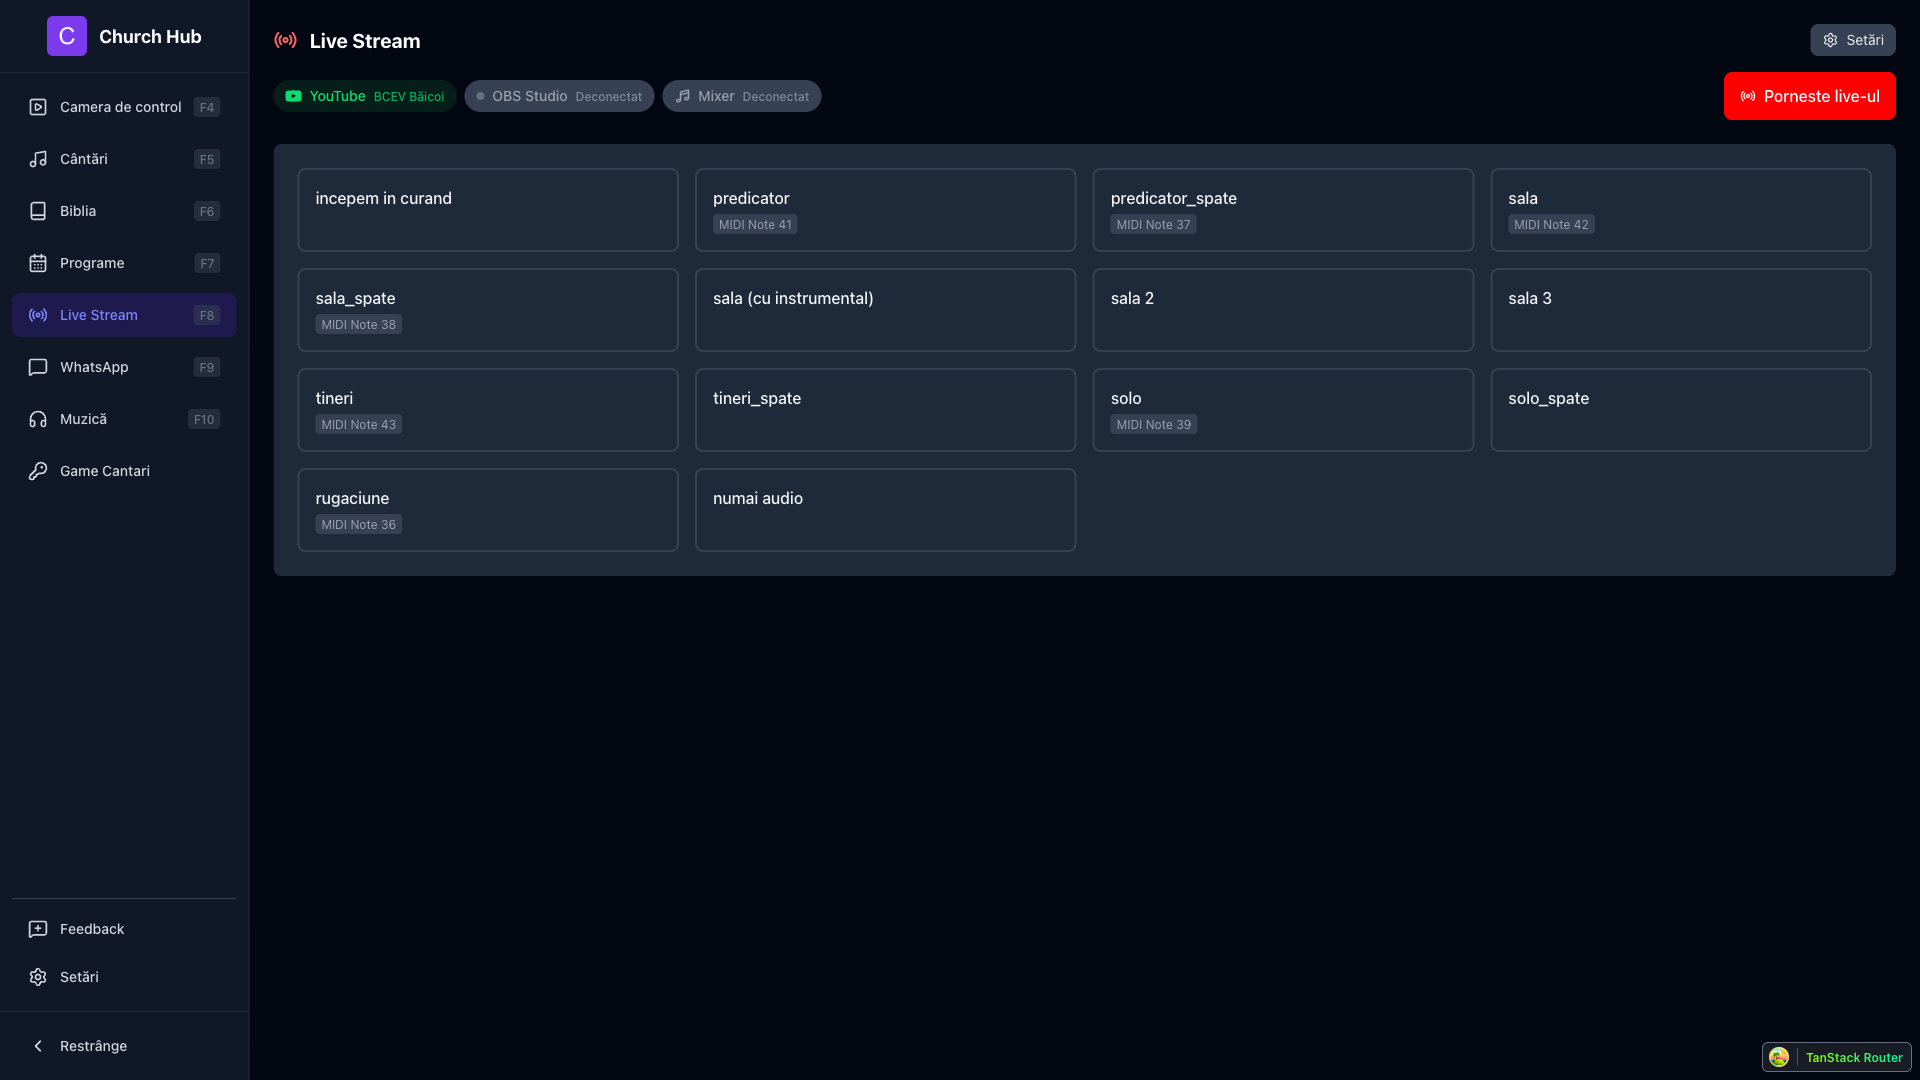
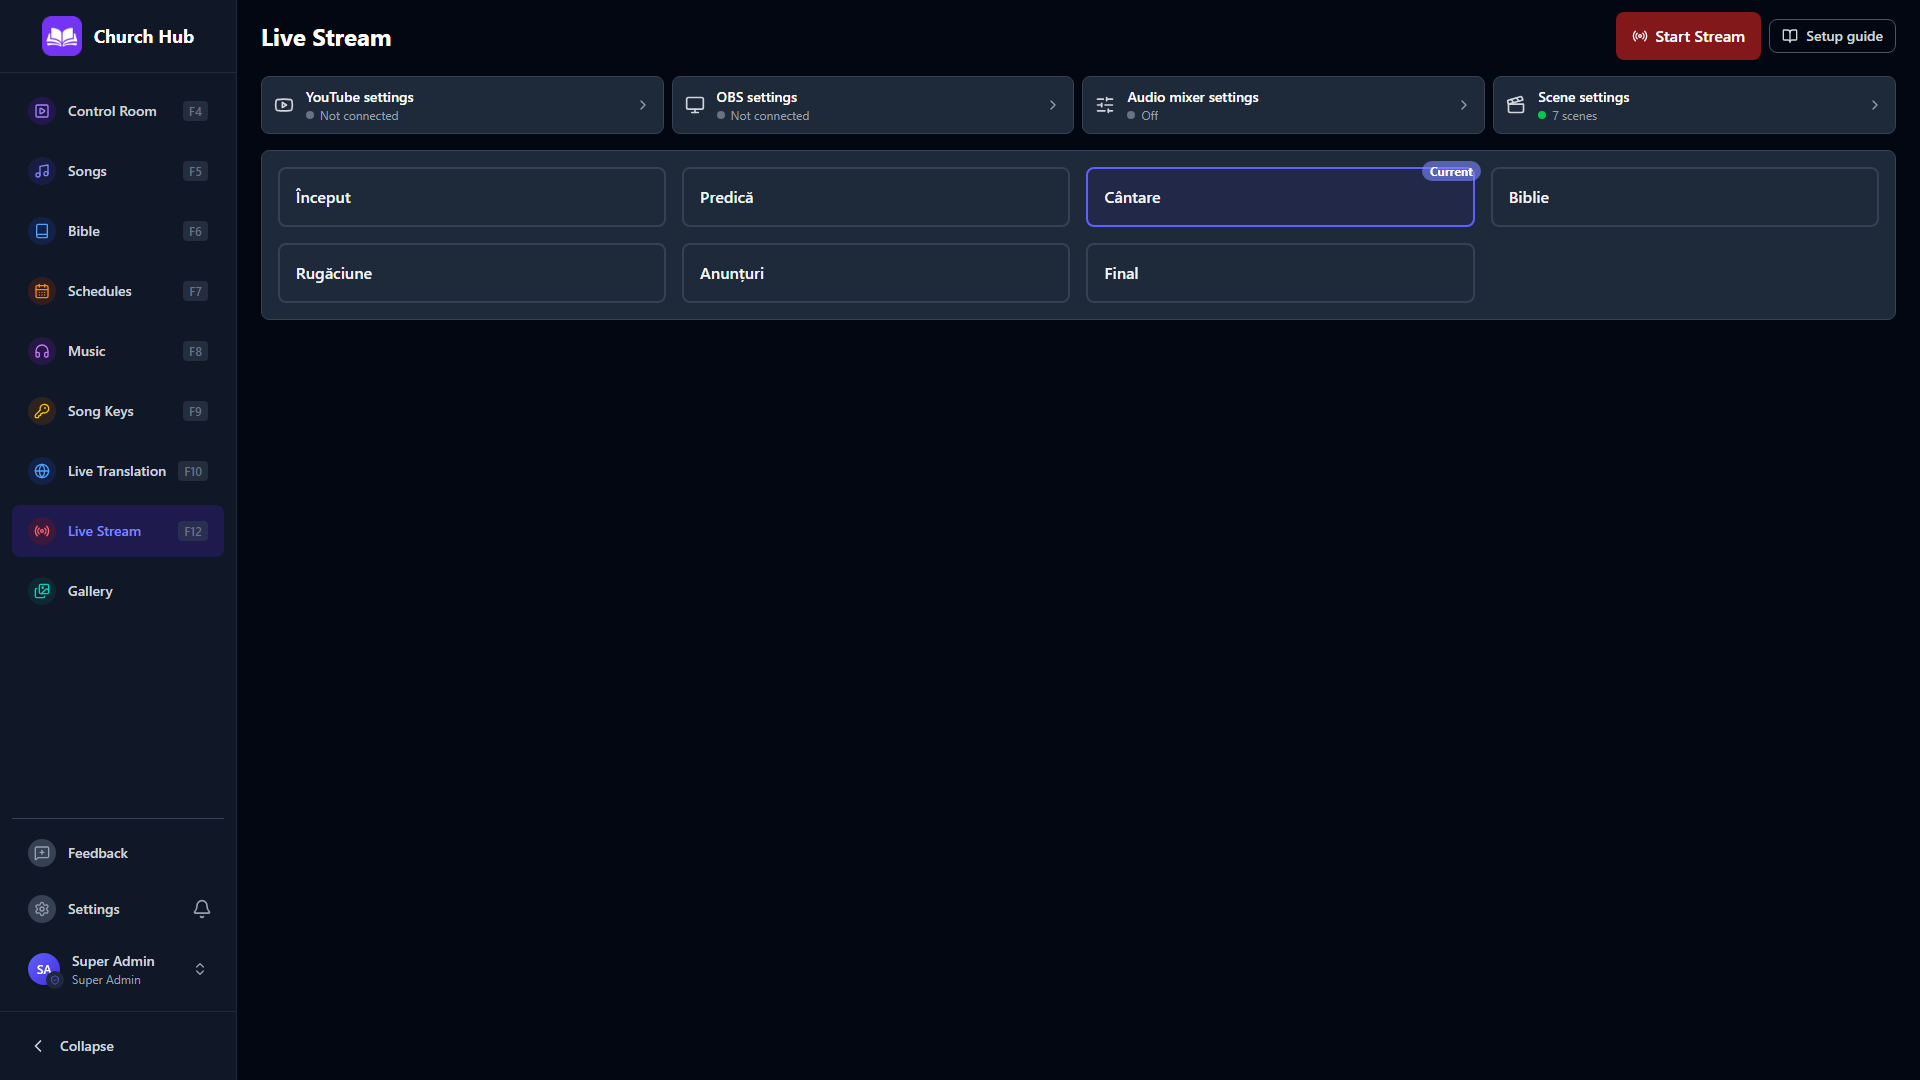
Superfactory's backup of T-071's work on sf/T-071-readme-fresh-screenshots-and-t

diff --git a/app/apps/client/scripts/readme-screenshots.ts b/app/apps/client/scripts/readme-screenshots.ts
@@ -1,0 +1,242 @@
+#!/usr/bin/env node
+/**
+ * Retakes the README screenshots (docs/screenshots/*.png) from a running test
+ * server on a fresh database: the bundled song library and Bibles, plus a
+ * small demo program, Marcaje and a presented song seeded here. No church data.
+ *
+ *   # a server on a fresh DB, e.g. on port 3199
+ *   NODE_ENV=production CLIENT_DIST_PATH=apps/client/dist \
+ *     DATABASE_PATH=<scratch>/app.db PORT=3199 bun run apps/server/src/index.ts
+ *   # then, in app/apps/client
+ *   SCREENSHOT_PORT=3199 node scripts/readme-screenshots.ts [name ...]
+ *
+ * The client must be built for that port (VITE_API_PORT / VITE_SERVER_PORT).
+ */
+import { dirname, join } from 'node:path'
+import { fileURLToPath } from 'node:url'
+import {
+  type APIRequestContext,
+  type BrowserContext,
+  chromium,
+  type Page,
+} from '@playwright/test'
+
+const PORT = process.env.SCREENSHOT_PORT ?? '3199'
+const BASE_URL = `http://localhost:${PORT}`
+const OUT_DIR = join(
+  dirname(fileURLToPath(import.meta.url)),
+  '../../../../docs/screenshots',
+)
+const VIEWPORT = { width: 1920, height: 1080 }
+
+const DEMO_SONGS = [
+  'Cât de mare eşti Isus',
+  'Lauda pe Domnul o suflete',
+  'Doamne sfinte Te marim',
+  'Mare e Domnul',
+  'Isus e Domnul',
+]
+
+interface Shot {
+  name: string
+  take: (page: Page, demo: Demo) => Promise<void>
+}
+
+interface Demo {
+  songIds: number[]
+  scheduleId: number
+}
+
+async function json<T>(res: Awaited<ReturnType<APIRequestContext['get']>>) {
+  if (!res.ok()) throw new Error(`${res.url()} → ${res.status()}`)
+  return ((await res.json()) as { data: T }).data
+}
+
+async function signIn(context: BrowserContext) {
+  const users = await json<{ id: number; isSuperAdmin: boolean }[]>(
+    await context.request.get('/api/auth/local-users'),
+  )
+  const admin = users.find((u) => u.isSuperAdmin)
+  if (!admin) throw new Error('no super admin: use a fresh database')
+  await json(
+    await context.request.post('/api/auth/login', {
+      data: { userId: admin.id },
+    }),
+  )
+}
+
+async function findSong(request: APIRequestContext, title: string) {
+  const hits = await json<{ id: number; title: string }[]>(
+    await request.get(`/api/songs/search?q=${encodeURIComponent(title)}`),
+  )
+  if (!hits[0]) throw new Error(`demo song not found: ${title}`)
+  return hits[0].id
+}
+
+const DEMO_KEYS = ['Do major', 'Sol major', 'Re major', 'La minor', 'Fa major']
+
+async function present(request: APIRequestContext, songId: number) {
+  await json(
+    await request.post('/api/presentation/temporary-song', {
+      data: { songId, slideIndex: 1 },
+    }),
+  )
+}
+
+async function seedDemo(request: APIRequestContext): Promise<Demo> {
+  const songIds: number[] = []
+  for (const title of DEMO_SONGS) songIds.push(await findSong(request, title))
+  // A key on each song (Song Keys, program rows); the edit also starts each
+  // song's history.
+  for (const [i, id] of songIds.entries()) {
+    const song = await json<{ title: string }>(
+      await request.get(`/api/songs/${id}`),
+    )
+    await json(
+      await request.post('/api/songs', {
+        data: { id, title: song.title, keyLine: DEMO_KEYS[i] },
+      }),
+    )
+  }
+
+  const schedule = await json<{ id: number }>(
+    await request.post('/api/schedules', {
+      data: { title: 'Duminică dimineața' },
+    }),
+  )
+  const translations = await json<{ id: number }[]>(
+    await request.get('/api/bible/translations'),
+  )
+  const passage = {
+    translationId: translations[0].id,
+    bookCode: 'JHN',
+    bookName: 'Ioan',
+    startChapter: 3,
+    startVerse: 16,
+    endChapter: 3,
+    endVerse: 18,
+  }
+  const items = [
+    { songId: songIds[0] },
+    { songId: songIds[1] },
+    { biblePassage: passage },
+    { songId: songIds[2] },
+    { songId: songIds[3] },
+  ]
+  for (const data of items)
+    await json(
+      await request.post(`/api/schedules/${schedule.id}/items`, { data }),
+    )
+  for (const songId of songIds.slice(0, 4))
+    await json(await request.post('/api/song-bookmarks', { data: { songId } }))
+
+  // Song Keys lists what was presented.
+  for (const songId of songIds.slice(1)) await present(request, songId)
+  await json(await request.post('/api/presentation/stop'))
+  return { songIds, scheduleId: schedule.id }
+}
+
+async function open(page: Page, path: string) {
+  await page.goto(path)
+  await page.waitForLoadState('networkidle')
+  await page.waitForTimeout(1500)
+}
+
+async function openSongAction(page: Page, songId: number, action: string) {
+  await open(page, `/songs/${songId}`)
+  await page.getByTestId('song-actions-menu').click()
+  await page.getByTestId(action).click()
+  await page.waitForTimeout(1000)
+}
+
+const SHOTS: Shot[] = [
+  // Before anything is live: /songs opens the live song when there is one.
+  { name: 'songs-list', take: (p) => open(p, '/songs') },
+  {
+    name: 'control-room',
+    take: async (p, d) => {
+      await present(p.request, d.songIds[0])
+      await open(p, '/present')
+    },
+  },
+  { name: 'songs-view', take: (p, d) => open(p, `/songs/${d.songIds[0]}`) },
+  {
+    name: 'song-editor',
+    take: (p, d) => open(p, `/songs/${d.songIds[0]}/edit`),
+  },
+  {
+    name: 'song-history',
+    take: (p, d) => openSongAction(p, d.songIds[0], 'song-history'),
+  },
+  {
+    name: 'bible',
+    take: async (p) => {
+      await open(p, '/bible')
+      await p.getByPlaceholder(/search/i).first().fill('Ioan 3:16')
+      await p.keyboard.press('Enter')
+      await p.waitForTimeout(2000)
+    },
+  },
+  { name: 'schedules', take: (p) => open(p, '/schedules') },
+  {
+    name: 'schedule-song',
+    take: (p, d) => open(p, `/schedules/${d.scheduleId}`),
+  },
+  { name: 'gallery', take: (p) => open(p, '/gallery') },
+  { name: 'livestream', take: (p) => open(p, '/livestream') },
+  {
+    name: 'music',
+    take: async (p) => {
+      await open(p, '/music')
+      await p.getByTitle('Add All to Queue').first().click()
+      await p.getByText('Sample Hymns').first().click()
+      await p.waitForTimeout(1500)
+    },
+  },
+  { name: 'song-key', take: (p) => open(p, '/song-key') },
+  {
+    name: 'screen-editor',
+    take: async (p) => {
+      await open(p, '/settings/screens')
+      await p.getByRole('button', { name: 'Edit layout' }).first().click()
+      await p.waitForTimeout(2500)
+    },
+  },
+  { name: 'control-room-settings', take: (p) => open(p, '/settings/screens') },
+  { name: 'backup', take: (p) => open(p, '/settings/backup') },
+  { name: 'settings', take: (p) => open(p, '/settings/users') },
+  {
+    name: 'feedback',
+    take: async (p) => {
+      await open(p, '/songs')
+      await p.getByTestId('sidebar-request-feature').click()
+      await p.waitForTimeout(2500)
+    },
+  },
+]
+
+async function main() {
+  const only = process.argv.slice(2)
+  const browser = await chromium.launch()
+  const context = await browser.newContext({
+    baseURL: BASE_URL,
+    viewport: VIEWPORT,
+    colorScheme: 'dark',
+  })
+  await signIn(context)
+  const demo = await seedDemo(context.request)
+  // The README is in English; the saved language would win over localStorage.
+  await context.route('**/api/settings/app_settings/language', (route) =>
+    route.fulfill({ json: { data: { key: 'language', value: 'en' } } }),
+  )
+  const page = await context.newPage()
+  for (const shot of SHOTS) {
+    if (only.length && !only.includes(shot.name)) continue
+    await shot.take(page, demo)
+    await page.screenshot({ path: join(OUT_DIR, `${shot.name}.png`) })
+    console.log(`✓ ${shot.name}`)
+  }
+  await browser.close()
+}
+
+await main()
